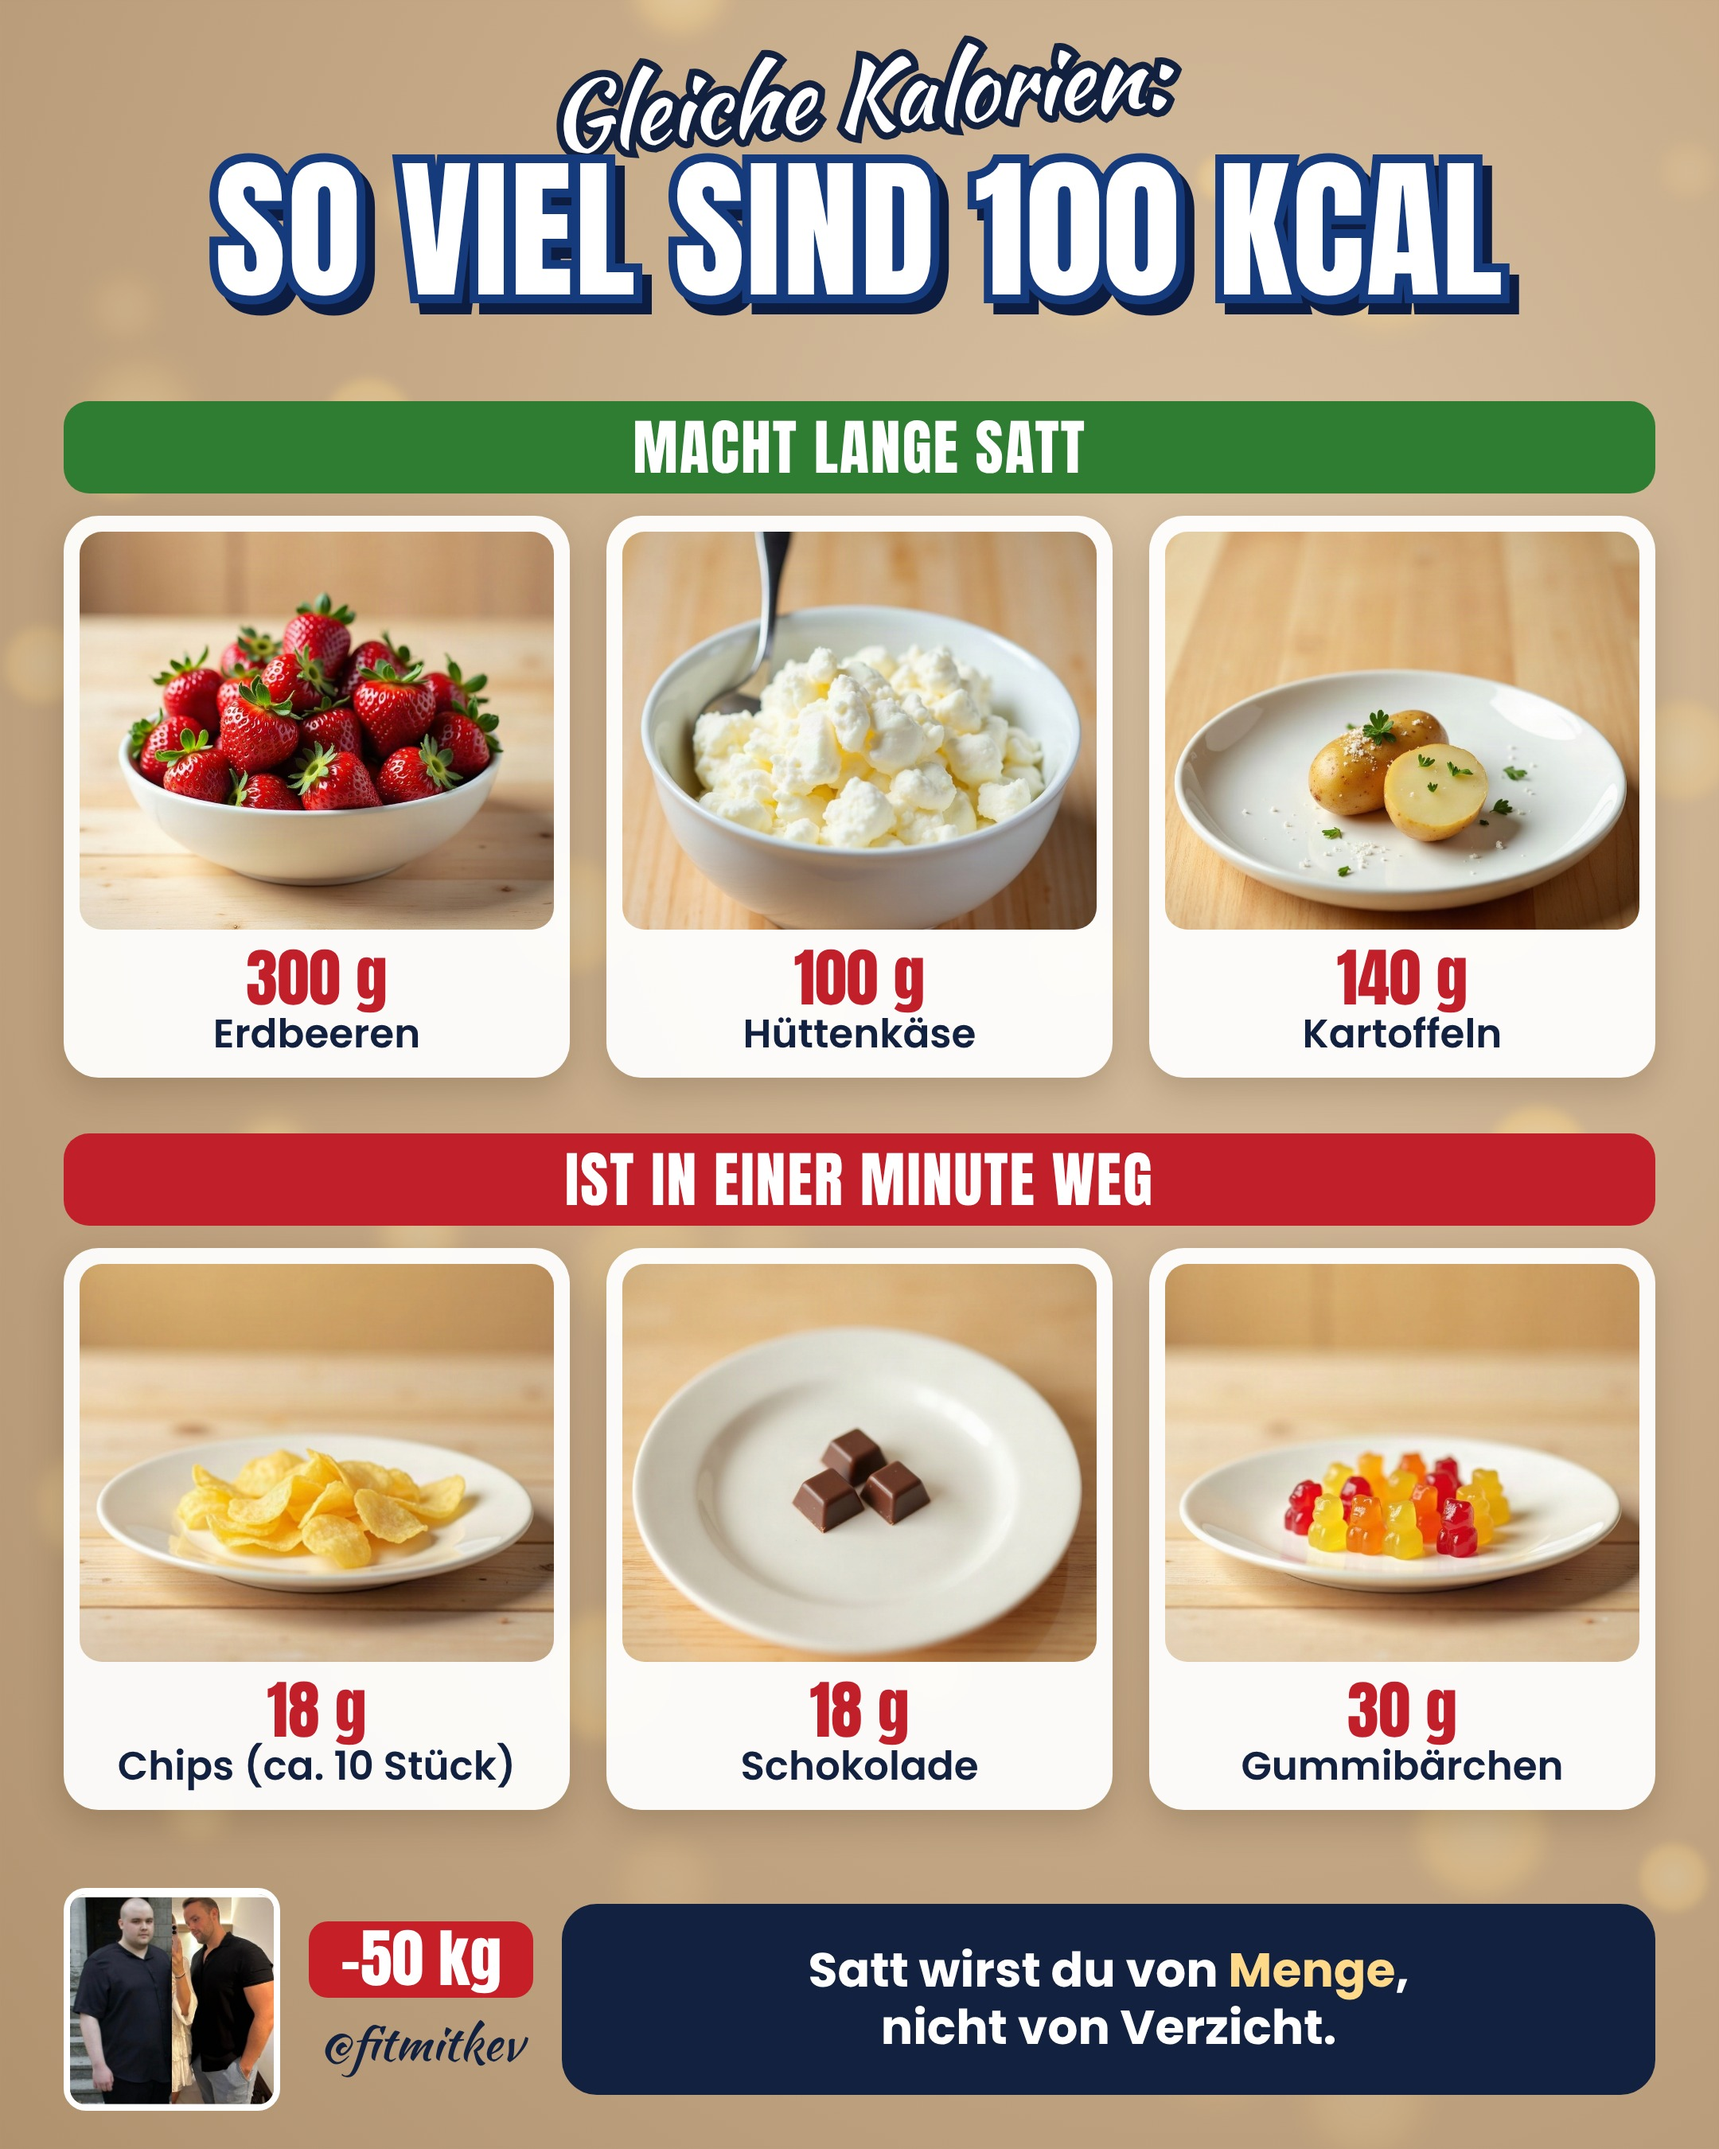
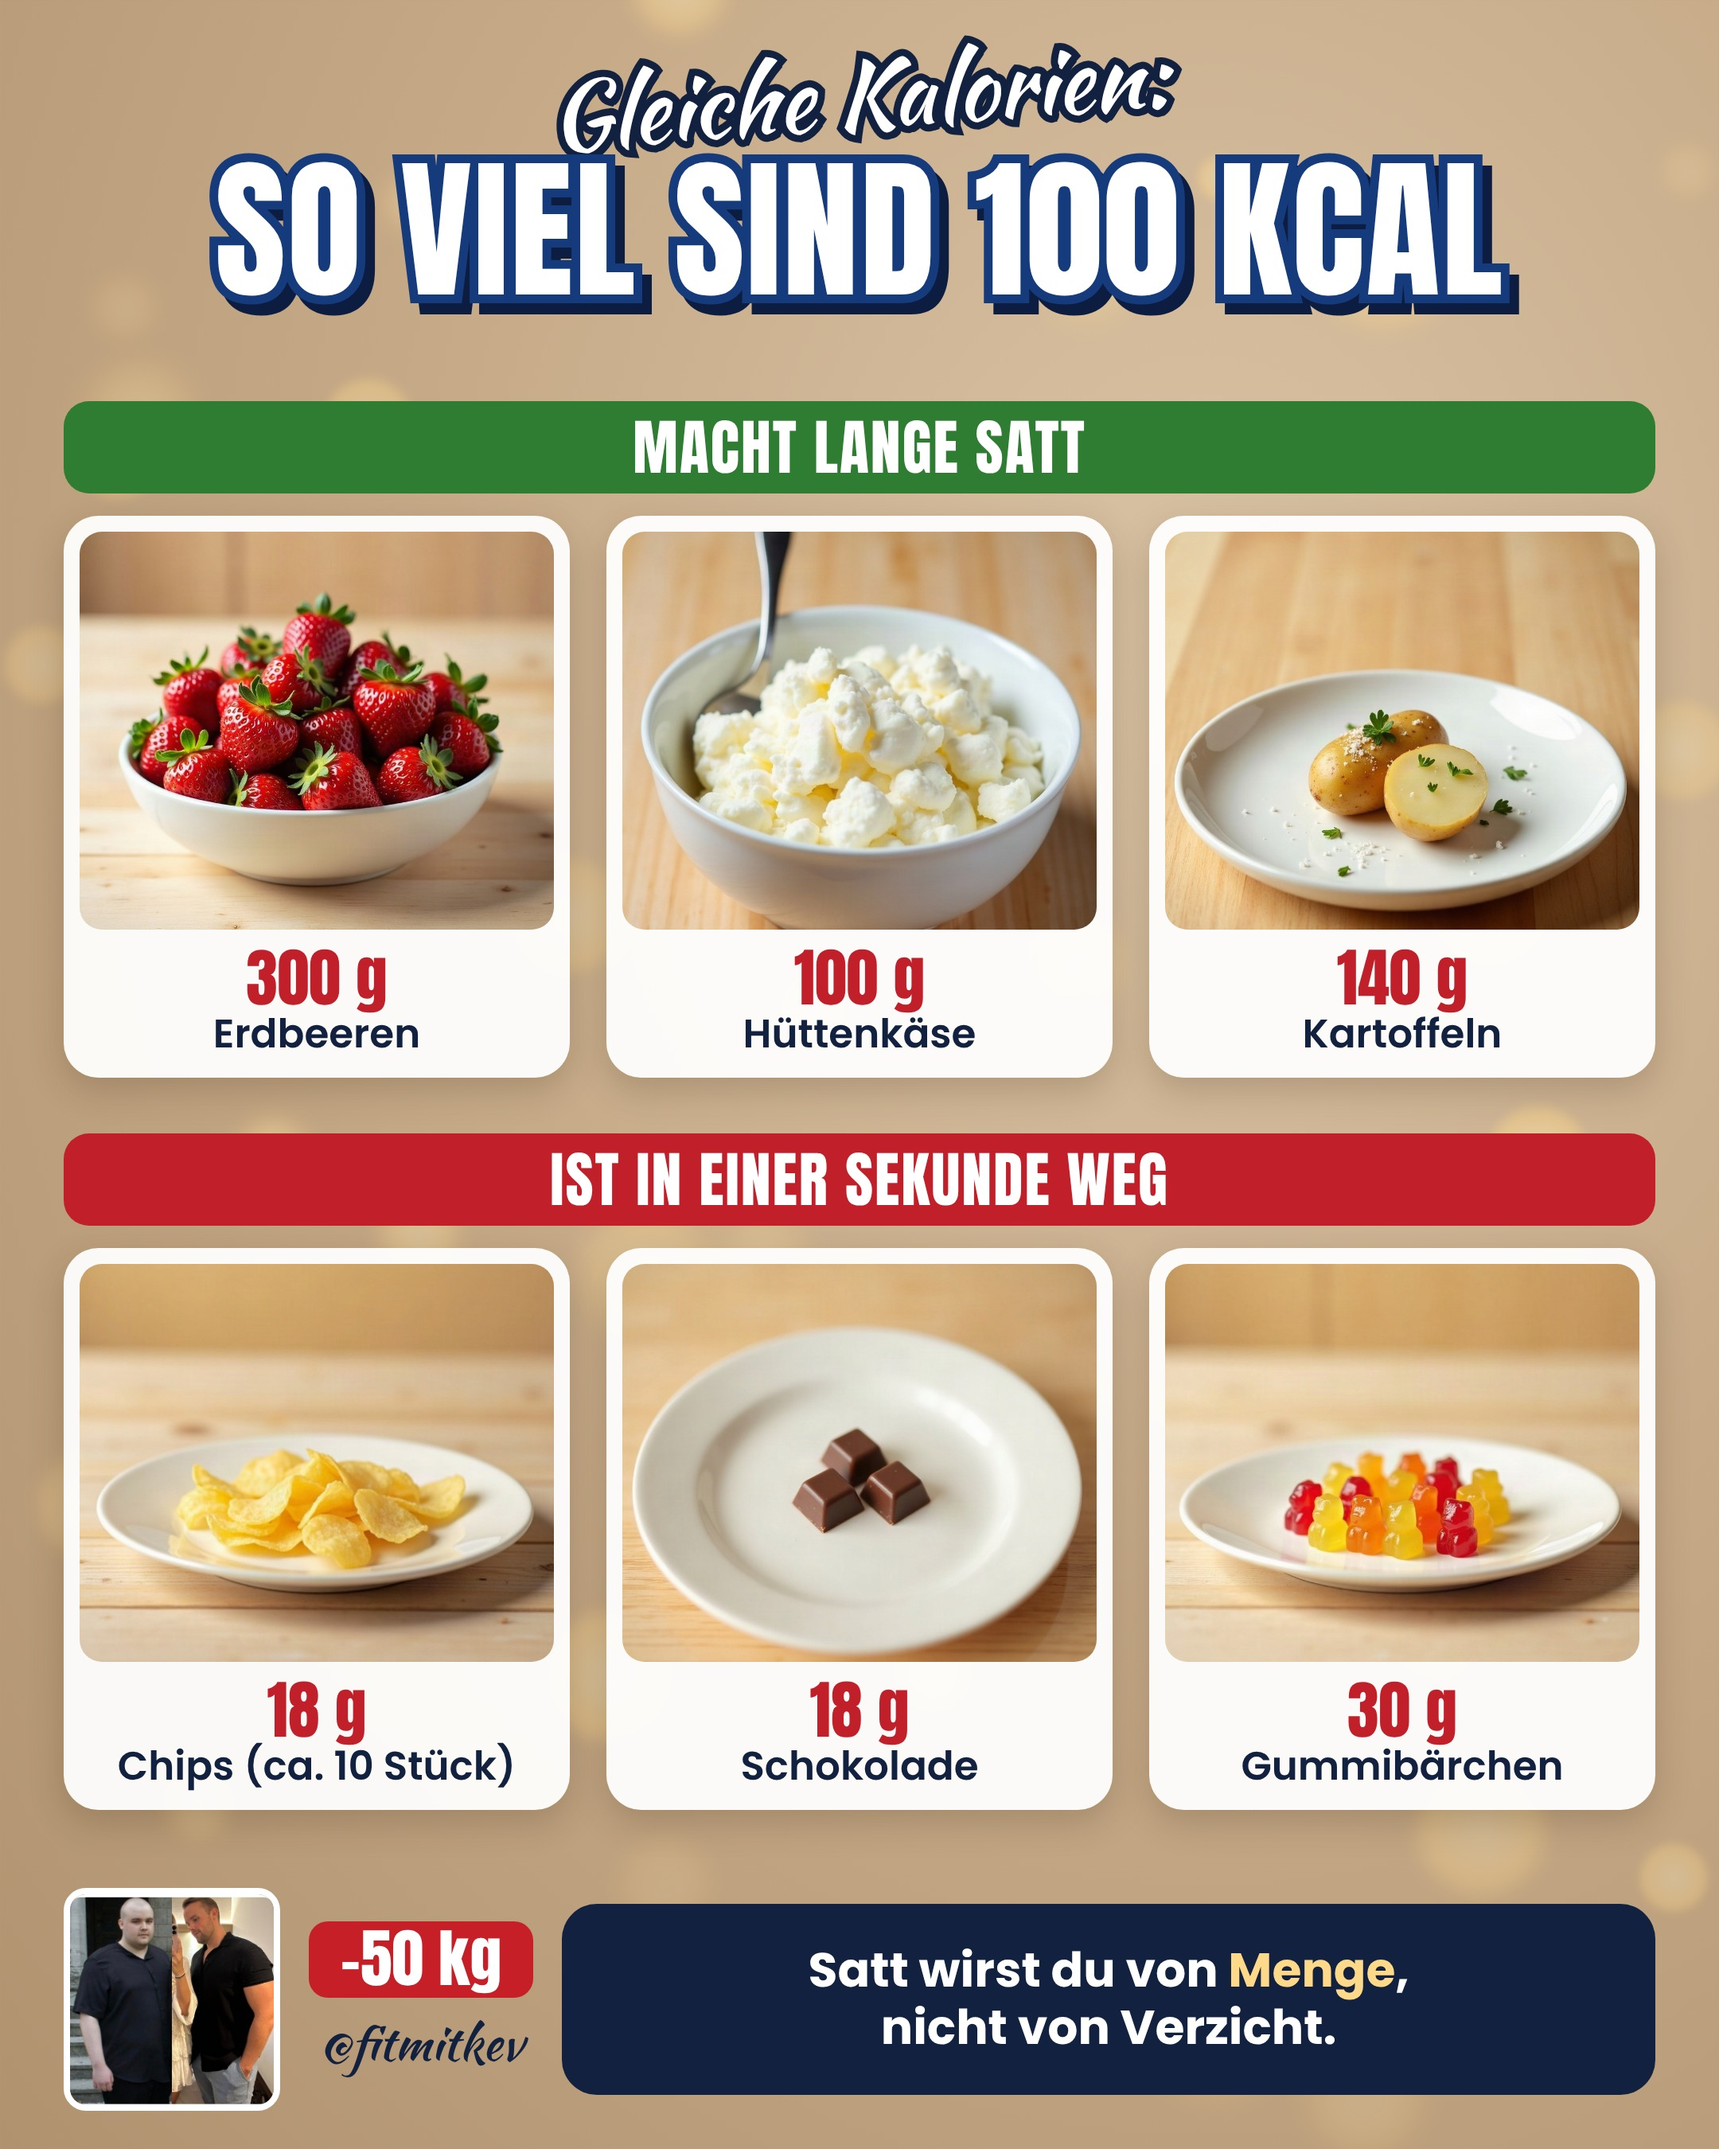
MW1: rotes Label 'in einer Sekunde weg'
Claude-Session: https://claude.ai/code/session_01KPVmpRePrZAkggdzf7KsfK

Changed region(s): [[0.3102, 0.5289, 0.6824, 0.56]]

diff --git a/tools/mw/mw_board.py b/tools/mw/mw_board.py
@@ -48,7 +48,7 @@ body{{margin:0;width:1080px;height:1350px;overflow:hidden;position:relative;font
 {T(['SO VIEL SIND 100 KCAL'],96)}</div>
 <div class="lab" style="top:252px;background:{GREEN}">MACHT LANGE SATT</div>
 <div class="row" style="top:324px">{cards(ROW1)}</div>
-<div class="lab" style="top:712px;background:{RED}">IST IN EINER MINUTE WEG</div>
+<div class="lab" style="top:712px;background:{RED}">IST IN EINER SEKUNDE WEG</div>
 <div class="row" style="top:784px">{cards(ROW2)}</div>
 <div class="foot"><img class="ph" src="{VN}"><div class="bd"><div class="badge">-50 kg</div><div class="ig">@fitmitkev</div></div>
 <div class="msg"><div>Satt wirst du von <span>Menge</span>,<br>nicht von Verzicht.</div></div></div>
